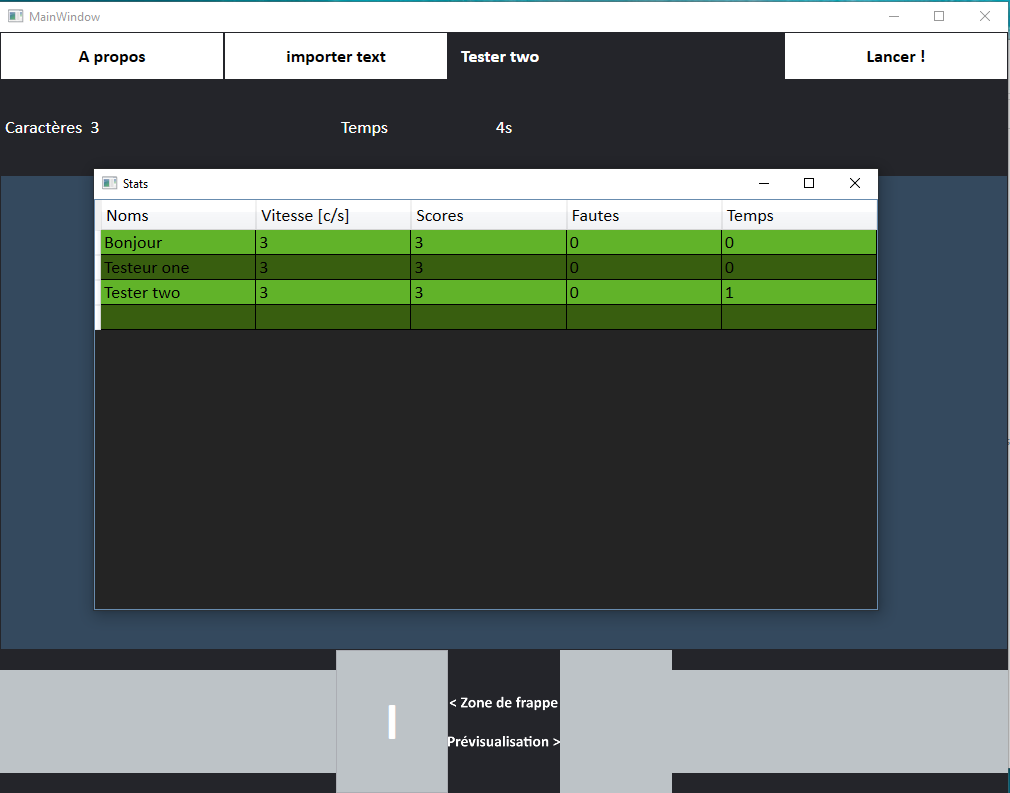
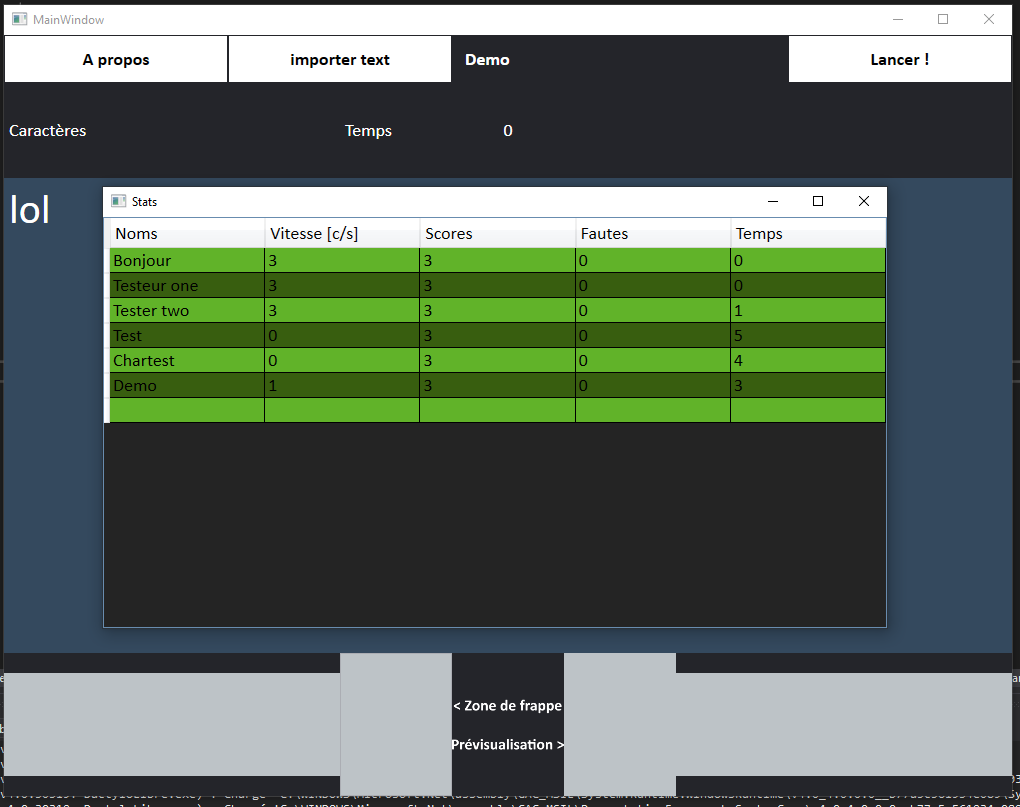
Game restart and other debug

diff --git a/DactyloLibre/MainWindow.xaml b/DactyloLibre/MainWindow.xaml
@@ -34,14 +34,10 @@
 		<Label Content="Temps" Grid.Row="1" Grid.Column="3" FontSize="18" Foreground="White" VerticalContentAlignment="Center"/>
 		<Label x:Name="timerShow" Content="0" Grid.Row="1" Grid.Column="4" FontSize="18" Foreground="White" HorizontalContentAlignment="Center" VerticalContentAlignment="Center"/>
 		<Label x:Name="alertLabel" Grid.Row="1" Grid.Column="6" Grid.ColumnSpan="3" FontSize="18" FontWeight="Bold" Foreground="White" VerticalContentAlignment="Center"/>
-		<RichTextBox Background="#FF34495E" Grid.Row="2" Foreground="White" FontSize="42" Grid.ColumnSpan="9" SelectionBrush="{x:Null}" BorderBrush="{x:Null}" IsReadOnly="True">
-			<FlowDocument>
-				<Paragraph >
-                    <Run  x:Name="textPreview" Text=""/>
-				</Paragraph>
-			</FlowDocument>
-		</RichTextBox>
-		<Label x:Name="historyKeyPressed3" Grid.Row="3" Grid.Column="0" Margin="0,20" Background="#FFBDC3C7" FontSize="50" FontWeight="Bold" Foreground="White" HorizontalAlignment="Stretch" HorizontalContentAlignment="Center" VerticalContentAlignment="Center"/>
+        
+        <Label x:Name="textPreview" Background="#FF34495E" Grid.Row="2" Foreground="White" FontSize="42" Grid.ColumnSpan="9"/>
+        
+        <Label x:Name="historyKeyPressed3" Grid.Row="3" Grid.Column="0" Margin="0,20" Background="#FFBDC3C7" FontSize="50" FontWeight="Bold" Foreground="White" HorizontalAlignment="Stretch" HorizontalContentAlignment="Center" VerticalContentAlignment="Center"/>
         <Label x:Name="historyKeyPressed2" Grid.Row="3" Grid.Column="1" Margin="0,20" Background="#FFBDC3C7" FontSize="50" FontWeight="Bold" Foreground="White" HorizontalAlignment="Stretch" HorizontalContentAlignment="Center" VerticalContentAlignment="Center"/>
         <Label x:Name="historyKeyPressed1" Grid.Row="3" Grid.Column="2" Margin="0,20" Background="#FFBDC3C7" FontSize="50" FontWeight="Bold" Foreground="White" HorizontalAlignment="Stretch" HorizontalContentAlignment="Center" VerticalContentAlignment="Center"/>
 

diff --git a/DactyloLibre/MainWindow.xaml.cs b/DactyloLibre/MainWindow.xaml.cs
@@ -17,6 +17,8 @@ namespace DactyloLibre
     /// </summary>
     public partial class MainWindow : Window
     {
+        private const int CHARTEXTMAXCOUT = 200;
+
         private Int16 charCount = 0;
         private Int16 fault = 0;
         private char letter = ' ';
@@ -26,9 +28,10 @@ namespace DactyloLibre
         private int timer_Count = 0;
         private DispatcherTimer dTimer;
         private string textAlertMessage = "";
-        private int nbCharText = 200;
+        private int nbCharText = CHARTEXTMAXCOUT;
         private bool playGame = false;
         private DispatcherTimer gameTimer;
+        private int alternater_time = 0;
 
         public MainWindow()
         {
@@ -63,7 +66,7 @@ namespace DactyloLibre
                 {
                     t += text2w[i];
                 }
-                textPreview.Text = t;
+                textPreview.Content = t;
 
             }
         }
@@ -104,11 +107,11 @@ namespace DactyloLibre
             Queue<char> vQueue = new Queue<char> { };
 
             vQueue.Enqueue(lastletter);
-            if (textPreview.Text.Length < 3) return;
+            if (((string)textPreview.Content).Length < 3) return;
 
             for(int i = 0; i < 2; i++)
             {
-                vQueue.Enqueue(textPreview.Text[i]);
+                vQueue.Enqueue(((string)textPreview.Content)[i]);
             }
 
             if (vQueue.Count > 3) vQueue.Dequeue();
@@ -135,6 +138,15 @@ namespace DactyloLibre
 
         private void stopGame()
         {
+            playGame = false;
+            gameTimer.Stop();
+
+            ResultatTreatment rslt = new ResultatTreatment();
+            if (rslt.appendStats(nameUser.Text, charCount, fault, timer_Count))
+            {
+                MessageBox.Show("Une erreur est survenue lors de l'enregistrement des informations du jeu");
+            }
+
             historyKeyPressed1.Content = "";
             historyKeyPressed2.Content = "";
             historyKeyPressed3.Content = "";
@@ -143,17 +155,21 @@ namespace DactyloLibre
             historyKeyToPressed3.Content = "";
             previewError.Content = "";
             historyLetters.Clear();
-            textPreview.Text = "";
+            textPreview.Content = "";
+            charCount = 0;
+            fault = 0;
+            timer_Count = 0;
+            nbCharText = CHARTEXTMAXCOUT;
+            timerShow.Content = 0;
+            showKeyPressed.Text = null;
+            charachterCount.Content = "Caractères  ";
+            reloadText();
 
-            playGame = false;
             textAlertMessage = "Partie terminée !";
             dTimer.Start();
 
 
-            ResultatTreatment rslt = new ResultatTreatment();
-            if (rslt.appendStats(nameUser.Text, charCount, fault, timer_Count)) {
-                MessageBox.Show("Une erreur est survenue lors de l'enregistrement des informations du jeu");
-            }
+            
 
             new Stats().Show();
 
@@ -161,11 +177,11 @@ namespace DactyloLibre
 
         private void keyDown(object sender, TextChangedEventArgs e)
         {
-            if (showKeyPressed.Text.Length < 1) return;
+            if (!playGame || showKeyPressed.Text.Length < 1) return;
 
             letter = showKeyPressed.Text[0];
 
-            if (!playGame || nbCharText < 1)
+            if (nbCharText < 1)
             {
                 // Game finished
                 stopGame();
@@ -175,7 +191,7 @@ namespace DactyloLibre
             showKeyPressed.Text = Convert.ToString(letter);
 
 
-            if (textPreview.Text[0] == letter)
+            if (((string)textPreview.Content)[0] == letter)
             {
                 charachterCount.Content = "Caractères  " + ++charCount;
                 previewError.Foreground = new SolidColorBrush(Colors.Green);
@@ -235,7 +251,7 @@ namespace DactyloLibre
 
         private void dTimerTick_AlertAlternate(Object sender, EventArgs e)
         {
-            if (++timer_Count % 2 > 0)
+            if (++alternater_time % 2 > 0)
             {
                 alertLabel.Content = textAlertMessage;
             }
@@ -244,9 +260,9 @@ namespace DactyloLibre
                 alertLabel.Content = "";
             }
 
-            if (timer_Count >= timerAlternate_nbTime)
+            if (alternater_time >= timerAlternate_nbTime)
             {
-                timer_Count = 0;
+                alternater_time = 0;
                 dTimer.IsEnabled = false;
             }
 
@@ -308,11 +324,15 @@ namespace DactyloLibre
                 textAlertMessage = "Donnez un nom !";
                 dTimer.Start();
             }
-            else
+            else if(playGame)
             {
                 alertLabel.Foreground = Brushes.Red;
                 textAlertMessage = "Une partie est déjà lancée !";
                 dTimer.Start();
+            }
+            else
+            {
+                MessageBox.Show("Ce n'était pas prévu, désolé");
             }
             
         }

diff --git a/README.md b/README.md
@@ -4,5 +4,7 @@ Réecriture de Dactylolibre en C#
 En cours de développement...
 
 - Ces images sont une démonstration et ne sont pas forcément à jour par rapport au code source
+
 ![GIF demo](https://github.com/spoutnik911/DactyloLibre-CsharpVersion/tree/master/demo/demo.gif)
+
 ![PNG demo](https://github.com/spoutnik911/DactyloLibre-CsharpVersion/tree/master/demo/demo.png)
